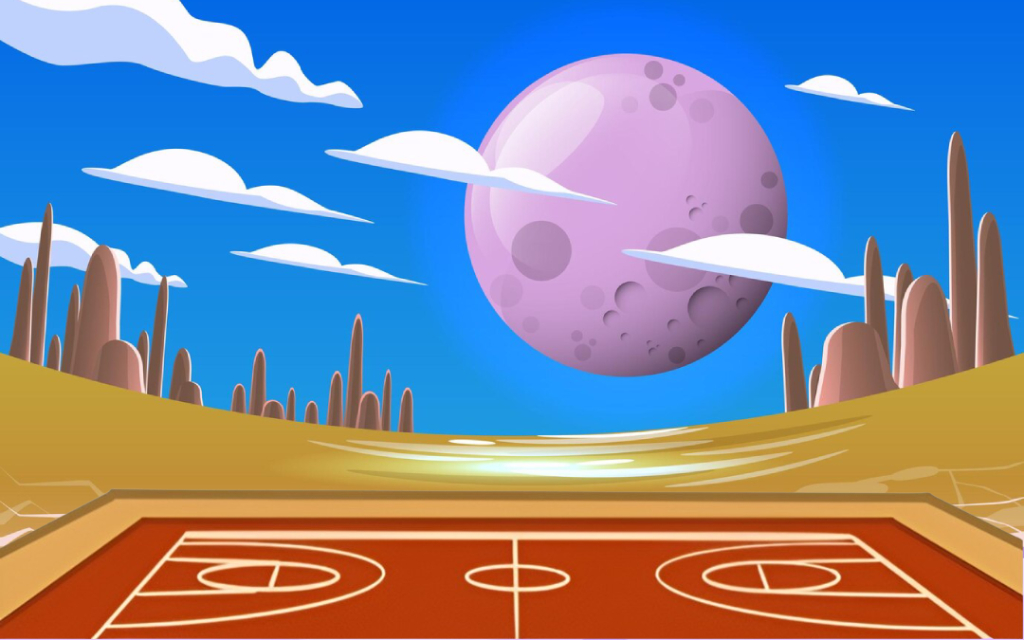
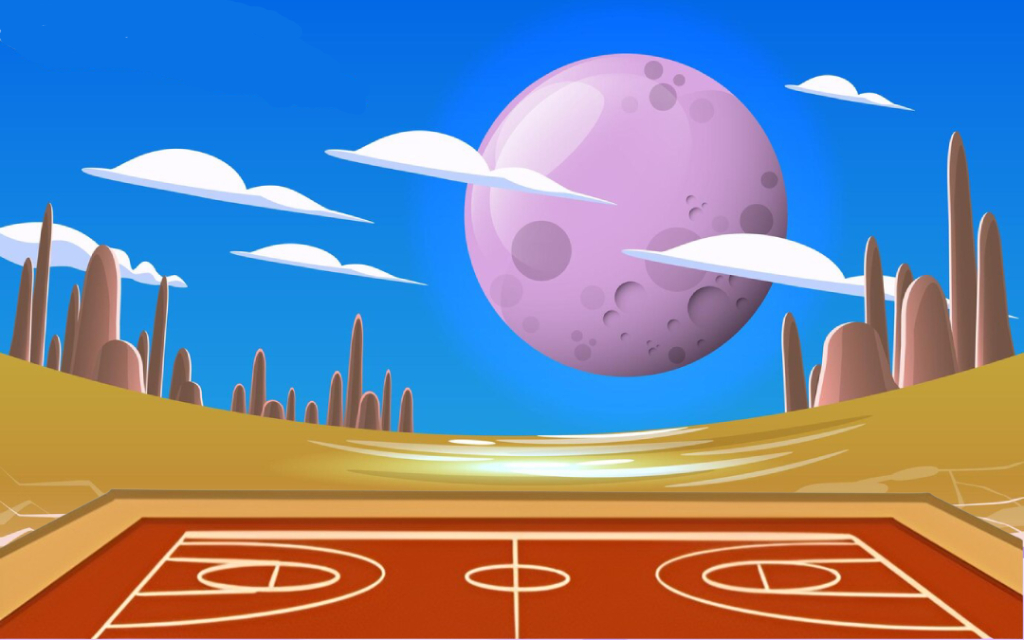
rajouté une image pour la victoire / changé l'affichage + photoshoppé le nuage + changé le menu aide

Changed region(s): [[0.0, 0.0, 0.375, 0.1875]]

diff --git a/jeu.py b/jeu.py
@@ -71,18 +71,19 @@ def JOUER():
                 pygame.quit()
                 sys.exit()
 
-            elif event.type == pygame.MOUSEBUTTONDOWN:
+            elif event.type == pygame.MOUSEBUTTONDOWN :
 
                 if JOUER_RETOUR.checkForInput(mouse_pos):
                     main_menu()
 
-                elif RECT_FLECHE_GAUCHE.collidepoint(mouse_pos):
+                elif RECT_FLECHE_GAUCHE.collidepoint(mouse_pos)  :
                     if indice != 0:
                         indice -= 1
 
-                elif RECT_FLECHE_DROITE.collidepoint(mouse_pos):
+                elif RECT_FLECHE_DROITE.collidepoint(mouse_pos) :
                     if indice != 3:
                         indice += 1
+
 
                 elif JOUER_MAP.checkForInput(mouse_pos):
                     map_select_sound.play()  # Jouer le son de sélection de carte
@@ -215,11 +216,13 @@ def PLAY_GAME(indice, gravite):
                     L_points.append((point_x, point_y))
                 L_aff = list(L_points)
             if score_p1 >= 15:
+                en_jeu = False
                 victoire(1)  # Joueur 1 gagne
-                en_jeu = False
+
             elif score_p2 >= 15:
-                victoire(2)  # Joueur 2 gagne
                 en_jeu = False
+                victoire(2)  # Joueur 2 gagne
+
 
         SCREEN.blit(background_image, (0, 0))
 
@@ -258,9 +261,9 @@ def PLAY_GAME(indice, gravite):
                 else:
                     score_p2 += 2  # Incrémenter le score du joueur 2
                 # Vérifier si un joueur a gagné
-                if score_p1 >= 10:
+                if score_p1 >= 1:
                     victoire(1)
-                elif score_p2 >= 10:
+                elif score_p2 >= 1:
                     victoire(2)
                 # Changer de joueur après chaque tir
                 current_player = 2 if current_player == 1 else 1
@@ -298,17 +301,24 @@ def victoire(joueur):
                 pygame.quit()
                 sys.exit()
             elif event.type == pygame.KEYDOWN:
-                if event.key == pygame.K_RETURN or event.key == pygame.K_ESCAPE:
+                if event.key == pygame.K_RETURN :
+                    JOUER()
+                elif event.key == pygame.K_ESCAPE:
                     main_menu()
 
-        SCREEN.fill(BLACK)
+        SCREEN.blit(pygame.image.load(LISTE_MAPS[indice]), (0, 0))
+
+        SCREEN.blit(pygame.image.load("assets/image/you_won.png"), (265, 150))
         victoire_text = get_font(75).render(f"Joueur {joueur} a gagne!", True, ORANGE)
-        victoire_rect = victoire_text.get_rect(center=(SCREEN_WIDTH // 2, SCREEN_HEIGHT // 2))
+        victoire_rect = victoire_text.get_rect(center=(SCREEN_WIDTH // 2,75))
         SCREEN.blit(victoire_text, victoire_rect)
 
-        instruction_text = get_font(30).render("Appuyez sur Echap ou Entree pour quitter", True, WHITE)
-        instruction_rect = instruction_text.get_rect(center=(SCREEN_WIDTH // 2, SCREEN_HEIGHT // 2 + 100))
+        instruction_text = get_font(30).render("Echap pour quitter ", True, (255, 191, 0))
+        instruction2_text = get_font(30).render("Entree pour rejouer ", True, (255, 191, 0))
+        instruction_rect = instruction_text.get_rect(center=(SCREEN_WIDTH // 2, 130))
+        instruction2_rect = instruction2_text.get_rect(center=(SCREEN_WIDTH // 2, 160))
         SCREEN.blit(instruction_text, instruction_rect)
+        SCREEN.blit(instruction2_text, instruction2_rect)
 
         pygame.display.flip()
 
@@ -334,7 +344,7 @@ def PAUSE_GAME():
         pygame.draw.rect(SCREEN, WHITE, pygame.Rect(300, 200, 420, 200))
         pygame.draw.rect(SCREEN, BLACK, pygame.Rect(300, 200, 420, 200), 5)
 
-        PAUSE_TEXT = get_font(30).render("Pause", True, ORANGE)
+        PAUSE_TEXT = get_font(30).render("Pause", True, "#CC522A")
         PAUSE_RECT = PAUSE_TEXT.get_rect(center=(SCREEN_WIDTH // 2, 250))
         SCREEN.blit(PAUSE_TEXT, PAUSE_RECT)
 
@@ -351,7 +361,7 @@ def PAUSE_GAME():
 def AIDE():
     global jeu_quittable
 
-    text_input = "Le principe du jeu est tres simple : \nchoisis une carte et deviens un vrai \ntireur d'elite ! Saisis la balle par \nun clic gauche, ajuste ta trajectoire \net la force en fonction des pointilles \net vise le panier pour marquer des points ! \nChaque panier marque augmentera\nton score de +2 ou +3 en fonction de s'il a \ntouche ou non l'arceau. \n\nLance toi et deviens un vrai pro du shoot !"
+    text_input = "Le principe du jeu est tres simple : \nchoisis une carte et deviens un vrai \ntireur d'elite ! Saisis la balle par \nun clic gauche, ajuste ta trajectoire \net la force en fonction des pointilles \net vise le panier pour marquer des points ! \nChaque panier marque augmentera\nton score de +2.  \nLance toi et deviens un vrai pro du shoot !"
 
     jeu_quittable = False
 
@@ -367,6 +377,9 @@ def AIDE():
 
         pygame.draw.rect(SCREEN, WHITE, pygame.Rect(60, 60, SCREEN_WIDTH - 120, SCREEN_HEIGHT - 120))
         pygame.draw.rect(SCREEN, BLACK, pygame.Rect(60, 60, SCREEN_WIDTH - 120, SCREEN_HEIGHT - 120), 5)
+
+        menu_help = pygame.image.load("assets/image/help_img.png")
+        SCREEN.blit( menu_help , (500,200) )
 
         AIDE_TEXT = get_font(60).render("Aide", True, ORANGE)
         AIDE_RECT = AIDE_TEXT.get_rect(center=(SCREEN_WIDTH // 2, 120))
@@ -451,7 +464,7 @@ RECT_BALL_IMAGE = BALL_IMAGE.get_rect()
 RECT_HOOP = HOOP_IMAGE.get_rect()
 
 RECT_PAUSE.x = 15
-RECT_PAUSE.y = 15
+RECT_PAUSE.y = 50
 hauteur_fleche = 310
 RECT_FLECHE_DROITE.center = 0, hauteur_fleche
 RECT_FLECHE_GAUCHE.center = 0, hauteur_fleche
